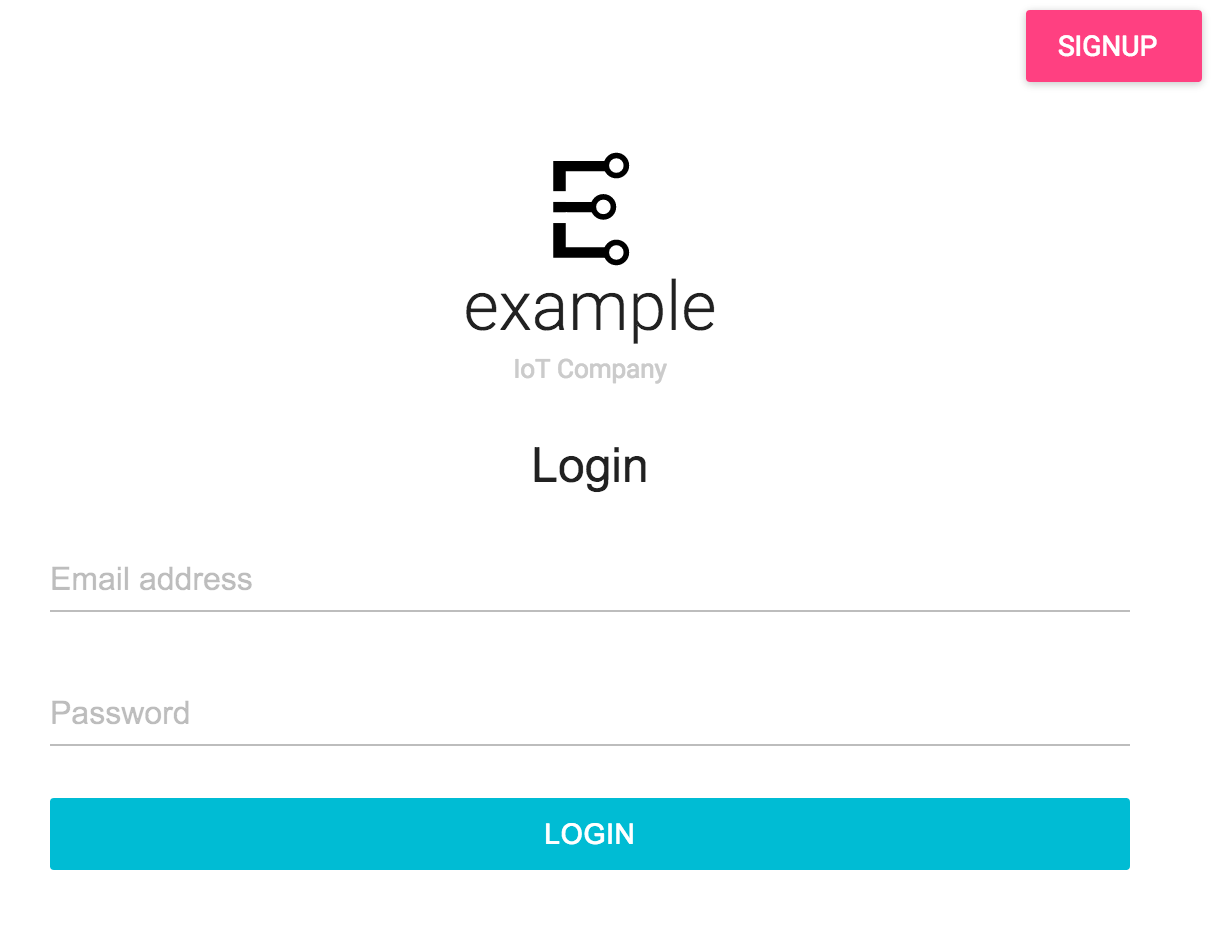
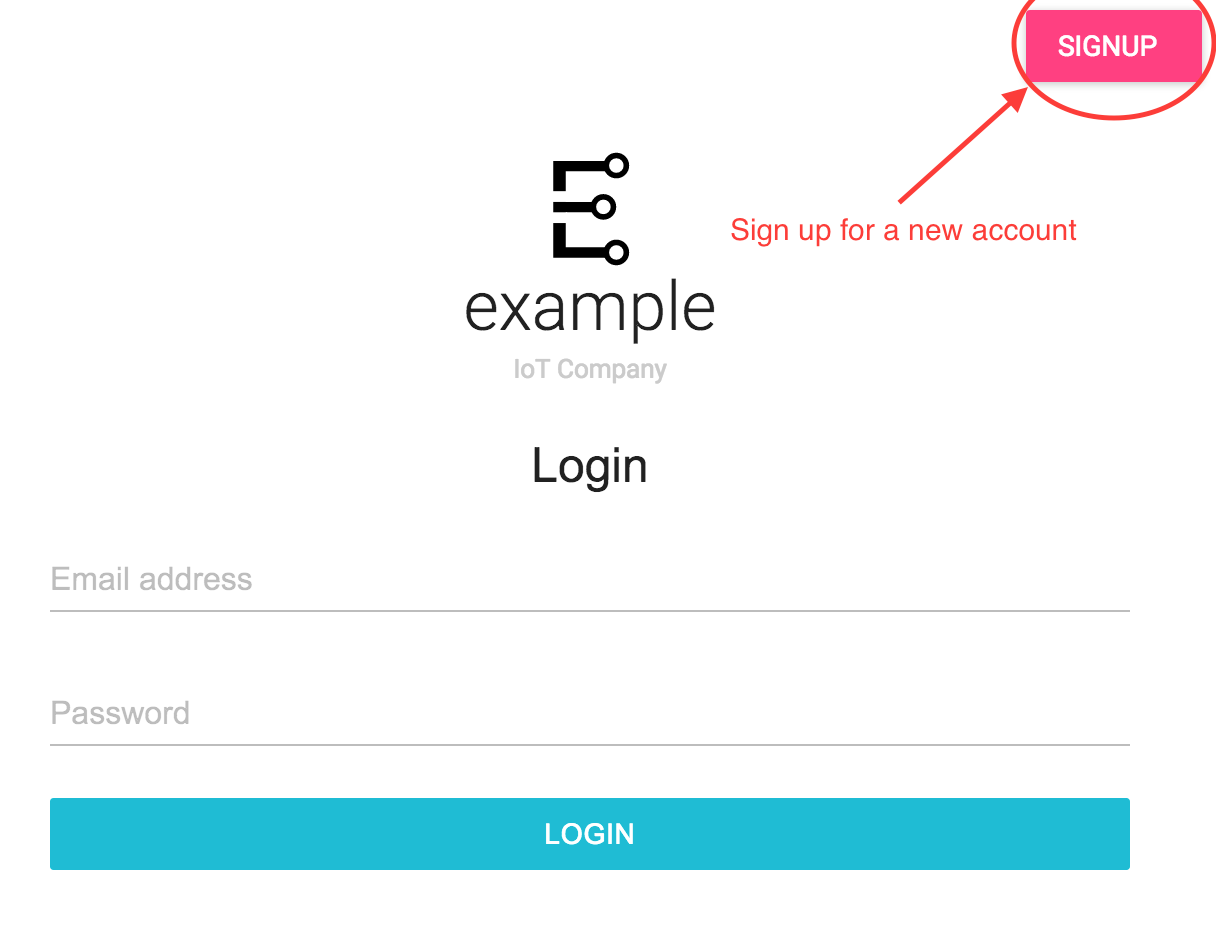
Updated Python simulator and Solution example docs based on usability testing.

diff --git a/murano/get-started/solutions/exampleapp/README.md b/murano/get-started/solutions/exampleapp/README.md
@@ -16,34 +16,67 @@ If you already have a Murano account, lets get started! If not
 <a class="btn orange" href="https://exosite.com/business/signup">Sign Up for Beta Access to Murano</a>
 
 
-# STEP 1: Create a solution
+# STEP 1: CREATE A SOLUTION USING THE HOME AUTOMATION EXAMPLE
 
-Create a solution using the home automation example as a starting point here: (https://www.exosite.io/business/solutions)
+Create a solution - using the home automation example as a starting point - here:
+<a href="https://www.exosite.io/business/solutions" target="_blank">https://www.exosite.io/business/solutions</a>
+
+**Note: You may have to delete your previous solution if you are on a free account.**
+
+<!--![Select menu](assets/solution_select_menu.png)
+![Select solutions](assets/solution_select_menu_option.png) -->
+![+New Solution](assets/solution_add_new.png)
+
+Notice the Home Automation Example will pull in a public Github repository. Note: If you're using your own Github repository in the future, it will not be linked to your solution (e.g. push to your Github repository and see changes on your solution). It consumes the repository when creating the solution, and you can push changes using the <a href="../../../exosite-cli/" target="_blank">Exosite CLI</a>. If a tight integration with Github would be valuable for you, feel free to upvote this feature here: 
+<a href="https://murano.ideas.aha.io/ideas/MUR-I-6" target="_blank">https://murano.ideas.aha.io/ideas/MUR-I-6</a>
+
 
 ![new solution](assets/new_solution.png)
-**Note: You may have to delete your previous solution if you are on a free account.**
+
 
 To verify the Template File worked, click the "Routes" menu item - you should see something like this: 
 ![Routes Example](assets/routes_example.png)
 
+**Awesome! You created a custom API, owner and guest roles with device-level permissions, a responsive web app (which we'll make changes to later), and an empty user database.**
 
-You now have a responsive web app communicating with the connected product! 
 
-# STEP 2: TRY OUT THE EXAMPLE APP
+# STEP 2: LINK YOUR PRODUCT WITH YOUR SOLUTION
+
+**Note: If you haven’t created a product yet, create one here:**
+<a href="https://exosite.io/business/products" target="_blank">https://exosite.io/business/products</a>
+
+You can plug in all kinds of services into your solution. Products are linked to your solution as a "service", similar to the way you can integrate Twilio. We'll continue to add services that you can plug in and save development time.
+
+1) In your solution, click on the services tab <br />
+2) Select "Products" <br />
+3) Select the settings icon <br />
+4) Select the products you want to include in the solution <br />
+5) Hit "apply" <br />
+
+![Link product to solution](assets/solution_link_product.png)
+
+**Your product is now linked to your solution - and can be added as a device.**
+
+
+# STEP 2: SIGN UP FOR A NEW ACCOUNT ON THE WEB APP
 
 Open your solution URL
 ![Open Solution Domain](assets/solution_open_domain_link.png)
 
+Sign up for an account on your new example app. <div style="background-color: #00BCD6; display: inline-block;">NOTE: You will not be able to login with your Exosite Murano credentials.</div> This is a totally separate application that you just deployed on the Murano platform, with a separate user database.
+
 If you used the Home Automation Example, it should look like this:
 ![Example App Screenshot](assets/solution_home_automation_example_app.png)
 
-Sign up for an account on your new example app. **NOTE: You won’t be able to login with your Exosite Murano credentials. This is a totally separate application that you just deployed on the Murano platform, with a separate user database.**
+After signing up, click on the email verification link, then login.
 
-After signing up, click on the email verification link. 
+In the new web app, add a lightbulb using the Identity of the device you added earlier (e.g. if you <a href="../../products/pythonsim/" target="_blank">simulated a device using a Python script</a>, your device identity would most likely be 000001). <div style="background-color: #00BCD6; display: inline-block;">NOTE: If you haven't added a device yet, it will throw an error.</div>
 
-In your application, add a lightbulb using the MAC address/serial number of the device you added earlier (from the python simulator or the Sparkfun ThingDev board). If you haven’t already, [CREATE A PRODUCT](http://beta-docs.exosite.com/murano/get-started/)
+You should see data from the lightbulb - current humidity, temperature, and whether it's on or off. Note: If you simulated a device using the Python Script, keep the script running so data will continue to flow into the application. It should look like this:
+![Example app - lightbulb added](assets/solution_example_app_with_lightbulb.png)
 
-You should see data from the lightbulb - current humidity, temperature, and whether it's on or off.
+
+**Congratulations, you've connected a device to your web app and are seeing live data.**
 
 
 # ADVANCED: DEPLOY CHANGES TO THE EXAMPLE SOLUTION 
@@ -68,30 +101,32 @@ Install the Exosite CLI
 sudo pip install exosite
 ```
 
-To confirm it’s working, type in: 
+To confirm the Exosite CLI was installed correctly, type in: 
 
 ```
-pip -h
+exosite -h
 ```
-**If it returns “command not found”, you may need to install pip with brew on your specific OS.**
-***NOTE: In OS X, you may need to go around the built-in system dependencies on “six” by running:**
+**If it returns “command not found”, you may need to install pip with brew on your specific OS. NOTE: There's a known issue in OS X - if you've upgraded to "El Capitan", you may need to go around the built-in system dependencies on “six” by running:**
 ```
-$ sudo pip install --upgrade exosite --ignore-installed 
-six --ignore-installed prompt-toolkit --ignore-installed requests
+sudo pip install --upgrade exosite --ignore-installed six --ignore-installed prompt-toolkit --ignore-installed requests
 ```
 
-Once you’ve successfully installed the Exosite CLI, do 
+Once you’ve confirmed the Exosite CLI was successfully installed, run the following 3 commands: 
 
 ```
 npm install
+```
+```
 npm run compile
+```
+```
 exosite --init
 ```
 
 Login with your Exosite credentials, and enter your product and solution IDs (hint: try the typeahead)
 ![cli login](assets/cli_login.png)
 
-Make a change to home-automation-example > app > views > Login.js. Change the text from “Login” to “Login HERE” to make sure changes are deployed.
+Make a change to home-automation-example > app > components > Login.js. Change the text from “Login” to “Login HERE” to make sure changes are deployed.
 ![rename login](assets/rename_login.png)
 
 Then compile your code
@@ -101,7 +136,7 @@ npm run compile
 
 And deploy your solution from the top level directory (you may need to cd back up to home-automation-example directory)
 ```
-exosite —deploy
+exosite -—deploy
 ```
 
 Open the URL (cmd/ctrl + click to open in default browser, or copy paste the link)
@@ -110,7 +145,7 @@ Open the URL (cmd/ctrl + click to open in default browser, or copy paste the lin
 
 Voila! Your Changes have been deployed: 
 
-![ExApp Change](assets/exapp_change.png)
+![Example app change](assets/solution_example_app_change.png)
 
 
 # SETTING UP LOCAL DEVELOPMENT
@@ -119,45 +154,43 @@ To run the web application static assets locally, create a .env file in the root
 
 API_BASE_URL=https://<solution-name>.apps.exosite-dev.io
 
-**NOTE: the Chrome plugin in the next step may change the appearance of certain websites (e.g. github.com) until you disable it. You can easily disable the plugin by going to Chrome > preferences > Disable ModHeader**
+**NOTE: the Chrome plugin in the next step may change the appearance of certain websites (e.g. github.com) until you disable it. You can easily disable the plugin by going to Chrome > Preferences > Extensions > Disable ModHeader**
 
-Install this [Chrome Plugin](https://chrome.google.com/webstore/detail/modheader/idgpnmonknjnojddfkpgkljpfnnfcklj/related?hl=en) and import this configuration: 
+Install this <a href="https://chrome.google.com/webstore/detail/modheader/idgpnmonknjnojddfkpgkljpfnnfcklj/related?hl=en" target="_blank">Google Chrome plugin</a> and import this configuration: 
 
 ```
-{"title":"Local Debugging","hideComment":true,"headers":
-[{"enabled":true,"name":"","value":"","comment":""}],
-"respHeaders":[{"enabled":true,"name":"Access-Control-Allow-Origin",
-"value":"http://localhost:8080","comment":""},
-{"enabled":true,"name":"Access-Control-Allow-Credentials",
-"value":"true","comment":""}],"filters":[],"appendMode":""}
+{"title":"Local Debugging","hideComment":true,"headers":[{"enabled":true,"name":"","value":"","comment":""}],"respHeaders":[{"enabled":true,"name":"Access-Control-Allow-Origin","value":"http://localhost:8080","comment":""},{"enabled":true,"name":"Access-Control-Allow-Credentials","value":"true","comment":""}],"filters":[],"appendMode":""}
 ```
 ![Import Config](assets/import_config.png)
 
 ![Import Profile](assets/import_profile.png)
 
 
-Then in terminal, paste this command:
+Then cd to the home-automation-example directory in terminal, and paste this command:
 ```
 npm run start:dev
 ```
 
-Go to (http://localhost:8080) in your browser.
+Go to <a href="http://localhost:8080" target="_blank">http://localhost:8080</a> in your browser.
 
-# STEP 3: DEPLOY CHANGES AND INNOVATE
-
-You can now develop locally, compile your app, and push to the cloud.
-After making changes, simply run 
+To push your solution changes to Exosite, simply run 
 ```
 npm run compile 
-```
-
-and then 
+``` 
+Then deploy your solution changes to Exosite:
 ```
 exosite --deploy 
 ```
+<div style="padding-bottom: 30px"></div>
 
-to deploy your IoT Solution.
+**Sweet! You can now develop locally, compile your app, and push to the cloud.**
 
-For more information about the powerful capabilities of Routes and Services (not to mention Hosting, Users, Roles and more, please check out our getting started documentation)
+<!-- Weaver's suggestion to add a link to learn more is valid and needed, but we don't talk about these things in the docs yet-->
+<!--For more information about the powerful capabilities of Routes and Services (not to mention Hosting, Users, Roles and more, please check out <a href="../../">our getting started documentation</a>. -->
+<div style="padding-bottom: 50px"></div>
 
-If you haven’t already, [CREATE A PRODUCT](http://beta-docs.exosite.com/murano/get-started/)
+
+
+Next up (if you haven’t already):
+<a class="btn orange" href="http://beta-docs.exosite.com/murano/get-started/">CREATE A PRODUCT >></a>
+<div style="padding-bottom: 300px"></div>

diff --git a/murano/get-started/products/pythonsim/README.md b/murano/get-started/products/pythonsim/README.md
@@ -4,14 +4,16 @@ template: default
 ---
 
 # SIMULATE A DEVICE USING A PYTHON SCRIPT
-**NOTE: This is a technical tutorial. You’ll need some familiarity with your operating system's terminal. In order to complete this tutorial you will need python installed on your system. If you haven’t used Python before, download and install it here: [https://www.python.org](https://www.python.org/)**
+**NOTE: This is a technical tutorial. You’ll need some familiarity with your operating system's terminal. In order to complete this tutorial you will need python installed on your system. If you haven’t used Python before, download and install it here: <a href="https://www.python.org" target="_blank">https://www.python.org/</a>**
 
 In this tutorial, we'll simulate a device based on the "Connected Lightbulb Example" and see data on your dashboard.
 
 
 # STEP 1: ADD EXAMPLE PRODUCT AND DEVICE
 
-If you haven’t already, [CREATE A PRODUCT](http://exosite.io/business/products) using the connected lightbulb example:
+If you haven’t already, create a product using the connected lightbulb example here:
+<a href="http://exosite.io/business/products" target="_blank">http://exosite.io/business/products</a>
+
 ![Add product button](assets/add_new_product.png )
 ![Create product for python device simulator](assets/create_product_python_simulator.png)
 
@@ -28,7 +30,7 @@ It should show up in your list as not activated. Now we'll use the python device
 
 # STEP 2: RUN THE PYTHON DEVICE SIMULATOR
 
-Open your OS terminal and clone the python simulator repo
+Open your OS terminal and clone the python simulator repo:
 ```
 git clone https://github.com/exosite/murano_python_device_simulator_example.git
 ```
@@ -42,7 +44,7 @@ Run the device simulator
 python murano_device_simulator.py
 ```
 
-It will ask you for your ProductID. On your browser, navigate to your product on Exosite and copy your Product ID
+The script will ask you for your ProductID. On your browser, navigate to your product on Exosite and copy your Product ID
 
 ![find product id](assets/find_product_id.png)
 
@@ -54,11 +56,15 @@ Then hit the enter key to use the default device identity (000001) - this matche
 
 **Note: If you've already added 000001 and simulated the device before, you may need to create a device (e.g. 000002), and change the default identity on the simulator. This will activate a new device and simulate data for it.**
 
+If the Python Simulator is running correctly, it should look like this:
+![Python simulator success](assets/product_python_simulator_success.png)
+
 The script should show that the device has been activated and whether the lightbulb is on or off. Change back to your browser and make sure the device has been activated and data is showing up on the platform:
 ![Select device](assets/product_device_activated.png)
+
 ![Select device](assets/product_device_resources_simulated_data.png)
 
-Awesome! Now you have a simulated device pumping data into Exosite. 
+Awesome! Now you have a simulated device pumping data into Exosite. Keep the simulator running throughout these tutorials.
 
 
 # STEP 3: CREATE THE DASHBOARD
@@ -78,9 +84,11 @@ Now try turning the light on and off for the simulated device. Hit the toggle sw
  ![dashboard toggle switch](assets/product_dashboard_complete_toggle_switch.png)
  ![dashboard toggle lightbulb on - terminal](assets/product_dashboard_lightbulb_on_terminal.png)
 
-Congratulations - you just remotely turned a simulated device sensor on and off.
+Congratulations - you just remotely turned a simulated device sensor on and off. 
 
-Next, [CREATE A SOLUTION](http://beta-docs.exosite.com/murano/get-started/solutions/exampleapp/)
+<a class="btn orange" href="http://beta-docs.exosite.com/murano/get-started/solutions/exampleapp/">UP NEXT: CREATE A SOLUTION >></a>
+<div style="padding-bottom: 300px"></div>
+
 
 
 

diff --git a/murano/get-started/README.md b/murano/get-started/README.md
@@ -15,7 +15,7 @@ You can choose from several starting points when creating a product depending on
     </tr>
     	<tr>
         <td style="text-align: center;">![Python Simulator](assets/sim.png)</td>
-        <td style="width:80%;padding-top:40px;padding-bottom:40px;">[Python Device Simulator Script](products/pythonsim)</td>
+        <td style="width:80%;padding-top:40px;padding-bottom:40px;">Don't have hardware? <br /> [Simulate a Device Using a Python Script](products/pythonsim)</td>
     </tr>
 	<tr>
         <td style="text-align: center;">![IoT Thing Dev](assets/iotthing.png)</td>
